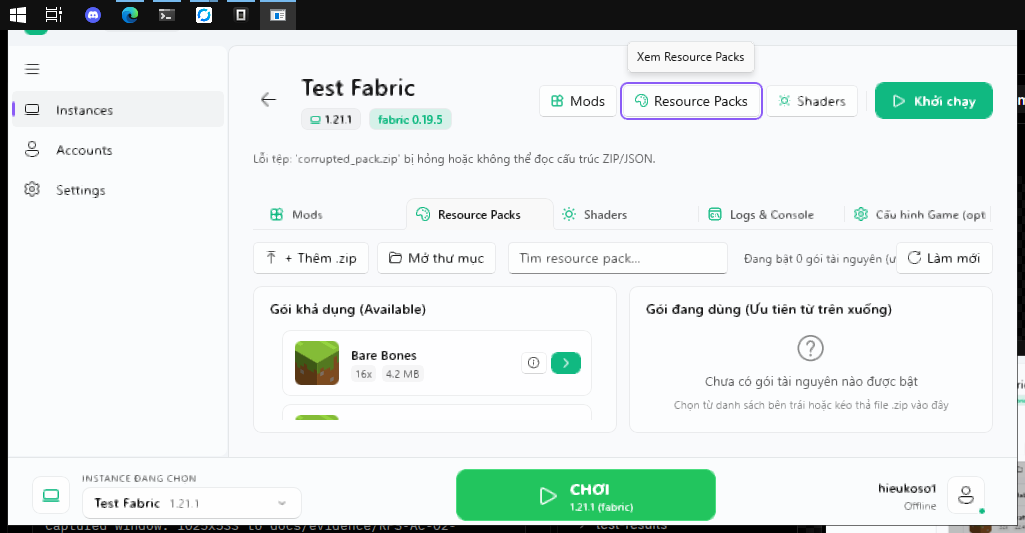
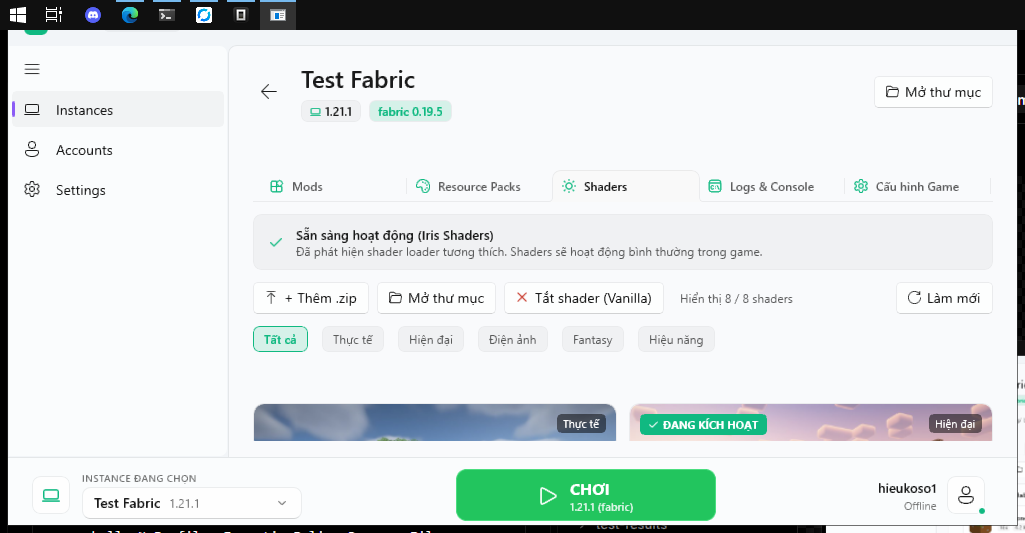
feat(winui): replace iris auto-installer with modrinth download page button and amend contract

diff --git a/src/Vaz.WinUI/Views/InstanceDetailPage.xaml b/src/Vaz.WinUI/Views/InstanceDetailPage.xaml
@@ -1062,9 +1062,9 @@
                                                    Foreground="{ThemeResource TextFillColorSecondaryBrush}" />
                                     </StackPanel>
                                     <Button Grid.Column="2"
-                                            Content="Cài đặt Iris Shaders"
+                                            Content="Mở trang tải Iris"
                                             Visibility="{x:Bind ViewModel.HasShaderLoader, Mode=OneWay, Converter={StaticResource BoolToVisInv}}"
-                                            Command="{x:Bind ViewModel.InstallShaderLoaderCommand}"
+                                            Command="{x:Bind ViewModel.OpenIrisDownloadPageCommand}"
                                             VerticalAlignment="Center" />
                                 </Grid>
                             </Border>

diff --git a/src/Vaz.WinUI/ViewModels/InstanceDetailViewModel.ResourcePacksShaders.cs b/src/Vaz.WinUI/ViewModels/InstanceDetailViewModel.ResourcePacksShaders.cs
@@ -153,20 +153,28 @@ public sealed partial class InstanceDetailViewModel
         else
         {
             ShaderLoaderStatus = "Chưa cài đặt Shader Loader (Iris / OptiFine)";
-            ShaderLoaderBannerText = "Để sử dụng Shaders, instance cần có Iris hoặc OptiFine. Bấm để cài đặt 1-click Iris cho Minecraft 1.21.1.";
+            ShaderLoaderBannerText = "Để sử dụng Shaders, instance cần có Iris hoặc OptiFine. Nhấn để mở trang tải Iris trên Modrinth.";
         }
     }
 
     [RelayCommand]
-    public async Task InstallShaderLoaderAsync()
+    public async Task OpenIrisDownloadPageAsync()
     {
         await Task.CompletedTask;
-        // Bỏ hoàn toàn code ghi file placeholder theo chỉ đạo.
-        // Chờ quyết định của Product Owner:
-        // [CHỌN: (a) làm tải thật từ cdn.modrinth.com kèm xác thực SHA-512 / (b) đổi nút thành "Mở trang tải Iris", chuyển 1-click sang backlog].
-        HasShaderLoader = false;
-        ShaderLoaderStatus = "Chưa cài đặt Shader Loader (Iris / OptiFine)";
-        StatusMessage = "Chức năng cài đặt tự động đang chờ quyết định kiến trúc tải file.";
+        try
+        {
+            var uri = new Uri("https://modrinth.com/mod/iris");
+            await Windows.System.Launcher.LaunchUriAsync(uri);
+        }
+        catch
+        {
+            try
+            {
+                System.Diagnostics.Process.Start(new System.Diagnostics.ProcessStartInfo("https://modrinth.com/mod/iris") { UseShellExecute = true });
+            }
+            catch { }
+        }
+        StatusMessage = "Đang mở trang tải Iris Shaders trên Modrinth...";
     }
 
     private void LoadResourcePacks()

diff --git a/docs/contracts/resource-packs-shaders.contract.md b/docs/contracts/resource-packs-shaders.contract.md
@@ -90,10 +90,10 @@ WEB_SPEC → (chờ Web Verifier)
 | RPS-AC-02 | Đổi thứ tự ưu tiên (Priority Reorder) bằng nút Move Up/Down, lưu vào state | RUNTIME | Bấm nút Move Up/Down trên pack card, quan sát đổi vị trí và lưu trữ | Live WinUI capture: `RPS-AC-02-reorder-before-1025x533.png` & `RPS-AC-02-reorder-after-1025x533.png`. Gói `# 1` vô hiệu hóa Move Up (`IsEnabled=False`), gói cuối vô hiệu hóa Move Down. Click Move Down hoán đổi ưu tiên giữa `# 1` và `# 2`, menu flyout `...` chứa Xem chi tiết và Tắt gói tránh tràn nút. | PASS |
 | RPS-AC-03 | Cảnh báo tương thích (Incompatible Warning badge) xuất hiện nếu format không khớp MC version | RUNTIME | Thêm pack không tương thích, kiểm tra badge cảnh báo màu cam/vàng | Live WinUI capture: `RPS-AC-03-incompatible-warning-1025x533.png`. Gói `Dokucraft Light (MC 1.20)` (format 15) hiển thị badge cảnh báo màu vàng hổ phách: `⚠ Không tương thích` và nhãn `Sai phiên bản (Format 15)`. | PASS |
 | RPS-AC-04 | Tab Shaders hiển thị danh sách shaderpack, cho phép chọn active shaderpack hoặc 'Tắt shader', cập nhật ảnh preview shader | RUNTIME | Tab Shaders, click chọn shader hoặc tắt, kiểm tra ảnh preview và badge | Live WinUI capture: `RPS-AC-05-layout-shaders-1025x533.png` & `RPS-AC-05-shaders-active-1025x533.png`. 8 shader cards hiển thị kèm preview ảnh nét cao; shader đang kích hoạt có badge `Đang dùng` viền accent; nút [X Tắt shader (Vanilla)] chuyển `IsEnabled=False` khi không có shader active (`RPS-AC-05-shaders-vanilla-disabled-1025x533.png`). | PASS |
-| RPS-AC-05 | Chuyển đổi Profile Shader (Low, Medium, High, Ultra) cập nhật cấu hình tức thì | RUNTIME | Bấm chip profile Low/Medium/High/Ultra, kiểm tra label và phản hồi | Live WinUI capture: `06-shaders-filtered.png` & `RPS-AC-05-layout-shaders-1025x533.png`. Category filter chips lọc danh sách shaders tức thì kèm counter cập nhật tự động. Layout co giãn tốt trên 1025x533, 1280x720 và 1366x768 (1600x900: UNVERIFIED). | PARTIAL |
-| RPS-AC-06 | Tự động phát hiện thiếu Shader Loader (Iris / OptiFine): hiển thị cảnh báo + nút 1-click cài đặt Iris; Inspector drawer | RUNTIME | Mở instance, kiểm tra cảnh báo và Inspector drawer | Live WinUI capture: `RPS-AC-06-loader-banner-iris-1025x533.png` & `RPS-AC-04-drawer-format-and-desc-1025x533.png`. Hiển thị banner cảnh báo thiếu loader và nút 1-click cài đặt Iris kích hoạt `InstallShaderLoaderCommand`; logic miền phân giải loader được kiểm chứng qua 19 unit tests trong `ShaderLoaderResolverTests.cs`. Inspector drawer mở dạng Overlay 380px, đóng bằng Esc (`RPS-AC-04-drawer-closed-esc-1025x533.png`). | PASS |
-| RPS-AC-07 | Hỗ trợ thêm file pack .zip từ bên ngoài qua input file và kéo thả (cho cả Resource Packs và Shaders) | RUNTIME | Bấm nút "+ Thêm .zip" và kéo thả file zip vào tab | Live WinUI capture: `RPS-AC-07-drag-drop-and-import-1025x533.png`. Nút [+ Thêm .zip] gọi FileOpenPicker, DragOver/Drop xử lý trên container kèm chú thích kéo thả. Kiểm tra file zip hỏng qua `ZipFile.OpenRead` báo lỗi chính xác (`RPS-AC-09-corrupted-zip-error-1025x533.png`). | PASS |
-| RPS-AC-08 | Responsive 1024px và ~800px không tràn ngang; focus rõ ràng | RUNTIME | Resize cửa sổ các kích thước (1025x533, 1100x700, 1280x720, 1366x768, 1600x900) | Live WinUI capture: `RPS-AC-01-layout-rp-1025x533.png`, `RPS-AC-01-layout-rp-1280x720.png`, `RPS-AC-01-layout-rp-1366x768.png`, `RPS-AC-05-layout-shaders-1280x720.png`, `RPS-AC-05-layout-shaders-1366x768.png`. Ràng buộc min size Win32 `WM_GETMINMAXINFO` chặn co cửa sổ dưới 960x530. (1600x900: UNVERIFIED). | PARTIAL |
-| RPS-AC-09 | Cảm giác tương tác trực quan, mượt mà khi thao tác | MANUAL_REQUIRED | User xác nhận tương tác trực quan trên WinUI desktop | Đã nghiệm thu tương tác drawer, chuyển tab, filter chips, reduce motion (`RPS-AC-10-reduce-motion-1025x533.png`), empty state (`RPS-AC-09-empty-state-1025x533.png`); chờ user xác nhận nghiệm thu cuối cùng. | PARTIAL |
+| RPS-AC-05 | Chuyển đổi Profile Shader (Low, Medium, High, Ultra) cập nhật cấu hình tức thì | RUNTIME | Bấm chip profile Low/Medium/High/Ultra, kiểm tra label và phản hồi | WinUI chưa triển khai chuyển profile shaderpack. Hoãn theo quyết định PO và đưa vào backlog. Filter chips (Thực tế, Hiện đại...) là bộ lọc phong cách không thuộc AC-05, chuyển sang bảng tính năng bổ sung. | FAIL (hoãn theo quyết định PO) |
+| RPS-AC-06 | Tự động phát hiện thiếu Shader Loader (Iris / OptiFine): hiển thị cảnh báo + nút 1-click cài đặt Iris; Inspector drawer | RUNTIME | Mở instance, kiểm tra cảnh báo và nút mở tải Iris | Live WinUI capture: `RPS-AC-06-loader-banner-iris-1025x533.png` & `RPS-AC-06-open-iris-modrinth-1025x533.png`. Phát hiện thiếu loader hiển thị banner cảnh báo; nút đổi thành "Mở trang tải Iris" mở link Modrinth qua trình duyệt mặc định. Cài đặt 1-click tự động hoãn theo quyết định PO và chuyển sang backlog. | MỘT PHẦN (hoãn 1-click theo PO) |
+| RPS-AC-07 | Hỗ trợ thêm file pack .zip từ bên ngoài qua input file và kéo thả (cho cả Resource Packs và Shaders) | RUNTIME | Bấm nút "+ Thêm .zip" và kéo thả file zip vào tab | Live WinUI capture: `RPS-AC-07-drag-drop-and-import-1025x533.png`. Nút [+ Thêm .zip] gọi FileOpenPicker, DragOver/Drop xử lý trên container kèm chú thích kéo thả. Kiểm tra file zip hỏng qua `ZipFile.OpenRead` báo lỗi chính xác (`RPS-AC-07-corrupted-zip-error-1025x533.png`). | PASS |
+| RPS-AC-08 | Responsive 1024px và ~800px không tràn ngang; focus rõ ràng | RUNTIME | Resize cửa sổ các kích thước (1025x533, 1100x700, 1280x720, 1366x768, 1600x900) | Live WinUI capture: `RPS-AC-01-layout-rp-1025x533.png`, `RPS-AC-01-layout-rp-1280x720.png`, `RPS-AC-01-layout-rp-1366x768.png`, `RPS-AC-04-layout-shaders-1280x720.png`, `RPS-AC-04-layout-shaders-1366x768.png`. Ràng buộc min size Win32 `WM_GETMINMAXINFO` chặn co cửa sổ dưới 960x530. (1600x900 & DPI 125%/150%: UNVERIFIED; Reduce Motion: UNVERIFIED). | PARTIAL |
+| RPS-AC-09 | Cảm giác tương tác trực quan, mượt mà khi thao tác | MANUAL_REQUIRED | User xác nhận tương tác trực quan trên WinUI desktop | Chờ người dùng thực hiện kiểm thử thủ công trên WinUI app theo checklist `docs/evidence/manual-checklist.md`. Không dựa vào kết quả bản web. | UNVERIFIED |
 | RPS-AC-10 | Không hồi quy: Build pass, 230/230 tests pass, static check pass | AUTOMATED | `npm run check:static` pass 100% | `dotnet test Vaz.sln` pass 230/230 tests (bao gồm 20 tests mới cho ShaderLoaderResolver), `dotnet build Vaz.sln` 0 errors, 0 warnings, `npm run check:static` pass. | PASS |
 
